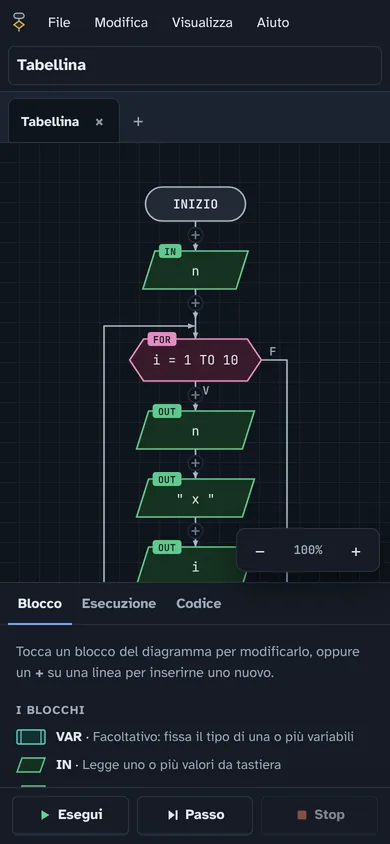
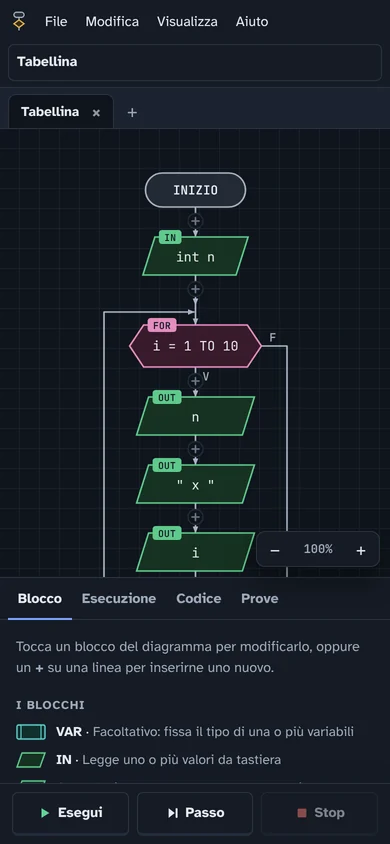
1.1.2: esempi con i tipi dichiarati (il Python generato funziona), finestra PNG che si chiude, pulizia di resti vecchi, immagini e README aggiornati

diff --git a/index.html b/index.html
@@ -29,7 +29,7 @@
 // an installed app, or a link with a diagram after #, opens straight on the editor
 if (location.hash.length > 2 || matchMedia('(display-mode: standalone)').matches || navigator.standalone) location.replace('app/' + location.hash);
 </script>
-<script type="application/ld+json">{"@context": "https://schema.org", "@type": "WebApplication", "name": "FlussoLab", "url": "https://flussolab.s3l.it/app/", "applicationCategory": "EducationalApplication", "operatingSystem": "Any (web browser)", "inLanguage": ["it", "en"], "isAccessibleForFree": true, "offers": {"@type": "Offer", "price": "0", "priceCurrency": "EUR"}, "description": "Editor gratuito di diagrammi di flusso (flowchart) per imparare a programmare. Funziona nel browser, anche su Chromebook e tablet, senza installare nulla: esecuzione passo passo, variabili, pseudocodice e Python, consegna in ZIP.", "image": "https://flussolab.s3l.it/icons/social.png", "screenshot": "https://flussolab.s3l.it/img/editor-it.webp", "softwareVersion": "1.1.1", "author": {"@type": "Person", "name": "aSamu3l", "url": "https://github.com/aSamu3l"}, "license": "https://creativecommons.org/licenses/by-nc-sa/4.0/"}</script>
+<script type="application/ld+json">{"@context": "https://schema.org", "@type": "WebApplication", "name": "FlussoLab", "url": "https://flussolab.s3l.it/app/", "applicationCategory": "EducationalApplication", "operatingSystem": "Any (web browser)", "inLanguage": ["it", "en"], "isAccessibleForFree": true, "offers": {"@type": "Offer", "price": "0", "priceCurrency": "EUR"}, "description": "Editor gratuito di diagrammi di flusso (flowchart) per imparare a programmare. Funziona nel browser, anche su Chromebook e tablet, senza installare nulla: esecuzione passo passo, variabili, pseudocodice e Python, consegna in ZIP.", "image": "https://flussolab.s3l.it/icons/social.png", "screenshot": "https://flussolab.s3l.it/img/editor-it.webp", "softwareVersion": "1.1.2", "author": {"@type": "Person", "name": "aSamu3l", "url": "https://github.com/aSamu3l"}, "license": "https://creativecommons.org/licenses/by-nc-sa/4.0/"}</script>
 <script type="application/ld+json">{"@context": "https://schema.org", "@type": "FAQPage", "mainEntity": [{"@type": "Question", "name": "È davvero gratis?", "acceptedAnswer": {"@type": "Answer", "text": "Sì, sempre. FlussoLab è distribuito con licenza CC BY-NC-SA 4.0: chiunque può usarlo e studiarne il codice, ma nessuno può venderlo o guadagnarci."}}, {"@type": "Question", "name": "Serve registrarsi?", "acceptedAnswer": {"@type": "Answer", "text": "No. I diagrammi restano salvati nel browser del dispositivo; per consegnarli o spostarli si salva un file .flusso."}}, {"@type": "Question", "name": "Funziona su Chromebook e iPad?", "acceptedAnswer": {"@type": "Answer", "text": "Sì. Basta un browser aggiornato: Chrome, Edge, Safari o Firefox. Su telefono e tablet l'interfaccia si adatta allo schermo."}}, {"@type": "Question", "name": "Funziona senza internet?", "acceptedAnswer": {"@type": "Answer", "text": "Sì, dopo la prima apertura. Puoi anche installarlo come app: dal menu del browser in Chrome ed Edge, oppure con «Aggiungi alla schermata Home» in Safari."}}, {"@type": "Question", "name": "Come consegnano i lavori gli studenti?", "acceptedAnswer": {"@type": "Answer", "text": "Con File → Salva si crea un file .flusso. Con File → Esporta consegna (ZIP) si ottiene un unico file con tutti i diagrammi aperti, sia da riaprire sia come immagini, con il nome dello studente."}}, {"@type": "Question", "name": "In quali linguaggi traduce il diagramma?", "acceptedAnswer": {"@type": "Answer", "text": "In pseudocodice, in italiano o in inglese, e in Python, che si attiva dalle opzioni."}}, {"@type": "Question", "name": "Posso proporre modifiche o tradurlo?", "acceptedAnswer": {"@type": "Answer", "text": "Sì. Il progetto è su GitHub: puoi segnalare problemi, proporre modifiche o aggiungere una lingua con un solo file."}}]}</script>
 </head>
 <body>
@@ -51,7 +51,7 @@ if (location.hash.length > 2 || matchMedia('(display-mode: standalone)').matches
   </div>
 </section>
 <figure class="shot wide"><img src="img/editor-it.webp" width="1280" height="760" alt="L&#x27;editor con il diagramma «Media dei voti» e la legenda dei blocchi." loading="lazy"><figcaption>L&#x27;editor con il diagramma «Media dei voti» e la legenda dei blocchi.</figcaption></figure>
-<section class="feat"><h2>Cosa sa fare</h2><div class="grps"><div class="grp"><h3>Per chi impara</h3><ul><li>I blocchi di sempre: IN, OUT, assegnazione, IF, WHILE, DO WHILE, FOR, VAR e commento.</li><li>Esecuzione completa o passo passo, con il blocco attivo evidenziato e la tabella delle variabili.</li><li>Errori segnalati prima di eseguire, con messaggi che spiegano cosa correggere.</li><li>Pseudocodice e codice Python generati dal diagramma, collegati blocco per blocco.</li><li>Tipi come in C: int, float, string e bool, con divisione intera e cast.</li></ul></div><div class="grp"><h3>Per chi insegna</h3><ul><li>Gli studenti consegnano un file .flusso, oppure un unico ZIP con tutti i diagrammi e le immagini.</li><li>Un diagramma si condivide con un link: la classe lo apre già pronto, senza caricare nulla su un server.</li><li>Nessun account e nessun dato raccolto: il lavoro resta sul dispositivo.</li><li>Immagini PNG dei diagrammi, pronte per verifiche e presentazioni.</li><li>Gratuito e con il codice aperto a tutti.</li></ul></div><div class="grp"><h3>Ovunque</h3><ul><li>Nel browser su Windows, Mac, Linux, Chromebook, iPad e Android.</li><li>Si installa come app e funziona anche senza internet.</li><li>In italiano e in inglese, con tema chiaro e scuro.</li></ul></div></div></section>
+<section class="feat"><h2>Cosa sa fare</h2><div class="grps"><div class="grp"><h3>Per chi impara</h3><ul><li>I blocchi di sempre: IN, OUT, assegnazione, IF, WHILE, DO WHILE, FOR, VAR e commento.</li><li>Esecuzione completa o passo passo, con il blocco attivo evidenziato e la tabella delle variabili.</li><li>Errori segnalati prima di eseguire, con messaggi che spiegano cosa correggere.</li><li>Pseudocodice e codice Python generati dal diagramma, collegati blocco per blocco.</li><li>Tipi come in C: int, float, string e bool, con divisione intera (//) e cast.</li><li>Scheda Prove: si scrivono input e output attesi e un clic controlla il programma.</li></ul></div><div class="grp"><h3>Per chi insegna</h3><ul><li>Gli studenti consegnano un file .flusso, oppure un unico ZIP con tutti i diagrammi e le immagini.</li><li>Un diagramma si condivide con un link: la classe lo apre già pronto, senza caricare nulla su un server.</li><li>Nessun account e nessun dato raccolto: il lavoro resta sul dispositivo.</li><li>Immagini PNG dei diagrammi, pronte per verifiche e presentazioni.</li><li>Gratuito e con il codice aperto a tutti.</li></ul></div><div class="grp"><h3>Ovunque</h3><ul><li>Nel browser su Windows, Mac, Linux, Chromebook, iPad e Android.</li><li>Si installa come app e funziona anche senza internet.</li><li>In italiano e in inglese, con tema chiaro e scuro.</li></ul></div></div></section>
 <div class="pair">
   <figure class="shot"><img src="img/run-it.webp" width="1280" height="760" alt="Esecuzione passo passo del programma «Numero primo»." loading="lazy"><figcaption>Esecuzione passo passo del programma «Numero primo».</figcaption></figure>
   <figure class="shot phone"><img src="img/phone-it.webp" width="390" height="844" alt="FlussoLab su telefono, con il tema scuro." loading="lazy"><figcaption>FlussoLab su telefono, con il tema scuro.</figcaption></figure>

diff --git a/en/index.html b/en/index.html
@@ -29,7 +29,7 @@
 // an installed app, or a link with a diagram after #, opens straight on the editor
 if (location.hash.length > 2 || matchMedia('(display-mode: standalone)').matches || navigator.standalone) location.replace('../app/' + location.hash);
 </script>
-<script type="application/ld+json">{"@context": "https://schema.org", "@type": "WebApplication", "name": "FlussoLab", "url": "https://flussolab.s3l.it/app/", "applicationCategory": "EducationalApplication", "operatingSystem": "Any (web browser)", "inLanguage": ["it", "en"], "isAccessibleForFree": true, "offers": {"@type": "Offer", "price": "0", "priceCurrency": "EUR"}, "description": "Free flowchart editor to learn programming. Runs in the browser, also on Chromebooks and tablets, with nothing to install: step-by-step execution, variables, pseudocode and Python, ZIP submissions.", "image": "https://flussolab.s3l.it/icons/social.png", "screenshot": "https://flussolab.s3l.it/img/editor-en.webp", "softwareVersion": "1.1.1", "author": {"@type": "Person", "name": "aSamu3l", "url": "https://github.com/aSamu3l"}, "license": "https://creativecommons.org/licenses/by-nc-sa/4.0/"}</script>
+<script type="application/ld+json">{"@context": "https://schema.org", "@type": "WebApplication", "name": "FlussoLab", "url": "https://flussolab.s3l.it/app/", "applicationCategory": "EducationalApplication", "operatingSystem": "Any (web browser)", "inLanguage": ["it", "en"], "isAccessibleForFree": true, "offers": {"@type": "Offer", "price": "0", "priceCurrency": "EUR"}, "description": "Free flowchart editor to learn programming. Runs in the browser, also on Chromebooks and tablets, with nothing to install: step-by-step execution, variables, pseudocode and Python, ZIP submissions.", "image": "https://flussolab.s3l.it/icons/social.png", "screenshot": "https://flussolab.s3l.it/img/editor-en.webp", "softwareVersion": "1.1.2", "author": {"@type": "Person", "name": "aSamu3l", "url": "https://github.com/aSamu3l"}, "license": "https://creativecommons.org/licenses/by-nc-sa/4.0/"}</script>
 <script type="application/ld+json">{"@context": "https://schema.org", "@type": "FAQPage", "mainEntity": [{"@type": "Question", "name": "Is it really free?", "acceptedAnswer": {"@type": "Answer", "text": "Yes, always. FlussoLab is released under the CC BY-NC-SA 4.0 license: anyone can use it and study its code, but nobody can sell it or make money from it."}}, {"@type": "Question", "name": "Do I need an account?", "acceptedAnswer": {"@type": "Answer", "text": "No. Diagrams stay saved in the browser on the device; to hand them in or move them, save a .flusso file."}}, {"@type": "Question", "name": "Does it work on Chromebooks and iPads?", "acceptedAnswer": {"@type": "Answer", "text": "Yes. Any up-to-date browser will do: Chrome, Edge, Safari or Firefox. On phones and tablets the interface adapts to the screen."}}, {"@type": "Question", "name": "Does it work without internet?", "acceptedAnswer": {"@type": "Answer", "text": "Yes, after the first visit. You can also install it as an app: from the browser menu in Chrome and Edge, or with “Add to Home Screen” in Safari."}}, {"@type": "Question", "name": "How do students hand in their work?", "acceptedAnswer": {"@type": "Answer", "text": "File → Save creates a .flusso file. File → Export submission (ZIP) creates one file with all open diagrams, both to reopen and as images, with the student’s name."}}, {"@type": "Question", "name": "Which languages does it translate the diagram into?", "acceptedAnswer": {"@type": "Answer", "text": "Into pseudocode, in English or Italian, and into Python, which you turn on in the options."}}, {"@type": "Question", "name": "Can I suggest changes or translate it?", "acceptedAnswer": {"@type": "Answer", "text": "Yes. The project is on GitHub: you can report problems, propose changes or add a language with a single file."}}]}</script>
 </head>
 <body>
@@ -51,7 +51,7 @@ if (location.hash.length > 2 || matchMedia('(display-mode: standalone)').matches
   </div>
 </section>
 <figure class="shot wide"><img src="../img/editor-en.webp" width="1280" height="760" alt="The editor with the “Average of grades” diagram and the block legend." loading="lazy"><figcaption>The editor with the “Average of grades” diagram and the block legend.</figcaption></figure>
-<section class="feat"><h2>What it does</h2><div class="grps"><div class="grp"><h3>For learners</h3><ul><li>The usual blocks: IN, OUT, assignment, IF, WHILE, DO WHILE, FOR, VAR and comment.</li><li>Run the whole program or step by step, with the active block highlighted and a table of variables.</li><li>Errors are flagged before running, with messages that explain what to fix.</li><li>Pseudocode and Python code generated from the diagram, linked block by block.</li><li>Types like in C: int, float, string and bool, with integer division and casts.</li></ul></div><div class="grp"><h3>For teachers</h3><ul><li>Students hand in a .flusso file, or a single ZIP with all their diagrams and images.</li><li>Share a diagram with a link: the class opens it ready to use, with nothing uploaded to a server.</li><li>No accounts and no data collected: the work stays on the device.</li><li>PNG images of the diagrams, ready for tests and slides.</li><li>Free, with its code open to everyone.</li></ul></div><div class="grp"><h3>Everywhere</h3><ul><li>In the browser on Windows, Mac, Linux, Chromebook, iPad and Android.</li><li>Installs as an app and works without internet.</li><li>In English and Italian, with light and dark theme.</li></ul></div></div></section>
+<section class="feat"><h2>What it does</h2><div class="grps"><div class="grp"><h3>For learners</h3><ul><li>The usual blocks: IN, OUT, assignment, IF, WHILE, DO WHILE, FOR, VAR and comment.</li><li>Run the whole program or step by step, with the active block highlighted and a table of variables.</li><li>Errors are flagged before running, with messages that explain what to fix.</li><li>Pseudocode and Python code generated from the diagram, linked block by block.</li><li>Types like in C: int, float, string and bool, with integer division (//) and casts.</li><li>Tests tab: write inputs and expected outputs, and one click checks the program.</li></ul></div><div class="grp"><h3>For teachers</h3><ul><li>Students hand in a .flusso file, or a single ZIP with all their diagrams and images.</li><li>Share a diagram with a link: the class opens it ready to use, with nothing uploaded to a server.</li><li>No accounts and no data collected: the work stays on the device.</li><li>PNG images of the diagrams, ready for tests and slides.</li><li>Free, with its code open to everyone.</li></ul></div><div class="grp"><h3>Everywhere</h3><ul><li>In the browser on Windows, Mac, Linux, Chromebook, iPad and Android.</li><li>Installs as an app and works without internet.</li><li>In English and Italian, with light and dark theme.</li></ul></div></div></section>
 <div class="pair">
   <figure class="shot"><img src="../img/run-en.webp" width="1280" height="760" alt="Step-by-step run of the “Prime number” program." loading="lazy"><figcaption>Step-by-step run of the “Prime number” program.</figcaption></figure>
   <figure class="shot phone"><img src="../img/phone-en.webp" width="390" height="844" alt="FlussoLab on a phone, dark theme." loading="lazy"><figcaption>FlussoLab on a phone, dark theme.</figcaption></figure>

diff --git a/css/style.css b/css/style.css
@@ -99,16 +99,12 @@ button,input,textarea,select{font:inherit;color:inherit}
 .btn{display:inline-flex;align-items:center;gap:6px;border:1px solid var(--rule);background:var(--surface);border-radius:7px;padding:6px 11px;cursor:pointer;font-size:14px;line-height:1.1;white-space:nowrap;text-decoration:none;color:var(--ink)}
 .btn:hover{background:var(--surface-2)}
 .btn:disabled{opacity:.45;cursor:default;background:var(--surface)}
-.btn.ico{padding:6px 8px}
 .btn svg{width:15px;height:15px;flex:none}
 .btn.primary{background:var(--pen);border-color:var(--pen);color:var(--on-pen);font-weight:700}
 .btn.primary:hover{filter:brightness(1.08)}
 .btn.danger{color:var(--red)}
-.btn.tog[aria-pressed="true"]{background:var(--pen-soft);border-color:var(--pen);color:var(--pen);font-weight:700}
 .check{display:flex;gap:8px;align-items:flex-start;font-size:14px;margin-bottom:12px;cursor:pointer}
 .check input{margin-top:3px;accent-color:var(--pen);width:16px;height:16px;flex:none}
-.check.big span{display:grid;gap:2px}
-.check.big small{color:var(--muted);font-size:13px}
 .btn.danger:hover{background:var(--red-soft)}
 .speed{display:flex;align-items:center;gap:6px;font-size:13px;color:var(--muted);padding-left:10px}
 .speed input{width:84px;accent-color:var(--pen)}
@@ -157,7 +153,7 @@ pre.code .cl.hov{background:var(--hl-soft);box-shadow:inset 3px 0 0 var(--hl)}
 .blk.hov .shape{stroke:var(--hl)!important;stroke-width:3!important}
 #svgHost svg{-webkit-user-select:none;user-select:none}
 #svgHost text{pointer-events:none}
-svg text,.field input,pre.code,.con,.vars td,.tip b,.dlg textarea{font-variant-ligatures:none;font-feature-settings:"liga" 0,"calt" 0}
+svg text,.field input,pre.code,.con,.vars td,.tip b{font-variant-ligatures:none;font-feature-settings:"liga" 0,"calt" 0}
 .about{display:flex;gap:12px;align-items:center}
 .about h2{margin:0}
 .about p{margin:2px 0 0}
@@ -282,9 +278,6 @@ pre.code{margin:0;font:13px/1.55 var(--f-mono);background:var(--paper);border:1p
 .exres .mark{font-size:15px}
 .exres li.ok .mark{color:var(--green)}
 .exres li.ko .mark{color:var(--red)}
-.radios{display:grid;gap:8px}
-.radios label{display:flex;gap:9px;align-items:flex-start;font-size:14.5px;cursor:pointer}
-.radios input{margin:3px 0 0;accent-color:var(--pen)}
 .exres dl{display:grid;grid-template-columns:auto 1fr;gap:3px 10px;margin:8px 0 0}
 .exres dt{color:var(--muted);font-size:12px;font-weight:700;padding-top:2px}
 .exres dd{margin:0;font:13px/1.4 var(--f-mono);white-space:pre-wrap;word-break:break-word;font-variant-ligatures:none}
@@ -307,19 +300,6 @@ pre.code{margin:0;font:13px/1.55 var(--f-mono);background:var(--paper);border:1p
 @media (max-width: 420px){ .mytest{grid-template-columns:1fr} .mytest .tdel{justify-self:end} }
 .handin{border:1px solid var(--pen);background:var(--pen-soft);border-radius:9px;padding:10px 12px}
 .handin .sent{margin:8px 0 0;color:var(--green);font-weight:700;font-size:13.5px}
-/* exercise editor (teacher) */
-.dlg textarea{font:14px var(--f-mono);padding:8px 10px;border:1px solid var(--rule);border-radius:7px;background:var(--paper);width:100%;resize:vertical;color:var(--ink)}
-.dlg textarea.prose{font-family:var(--f-body)}
-.extests{display:grid;gap:10px}
-.extest{border:1px solid var(--rule);border-radius:9px;padding:10px;display:grid;grid-template-columns:1fr 1fr;gap:8px 10px}
-.extest .lbl{font-size:12px;font-weight:700;color:var(--muted)}
-.extest .exio{display:grid;gap:4px;min-width:0}
-.extest textarea{min-height:76px}
-.extest .act{grid-column:1/-1;display:flex;flex-wrap:wrap;gap:8px;align-items:center}
-.extest .act .sp{flex:1}
-.extest .msg{grid-column:1/-1;color:var(--red);font-size:12.5px}
-dialog.wide{width:min(720px,calc(100vw - 32px))}
-@media (max-width: 560px){ .extest{grid-template-columns:1fr} }
 /* dialogs */
 dialog{border:1px solid var(--rule);border-radius:14px;padding:0;background:var(--surface);color:var(--ink);box-shadow:var(--shadow);width:min(560px,calc(100vw - 32px));max-height:calc(100vh - 48px);max-height:calc(100dvh - 32px);overflow:auto}
 dialog::backdrop{background:rgb(10 16 26 / .45)}

diff --git a/js/app.js b/js/app.js
@@ -2,7 +2,7 @@
 'use strict';
 /* ====== Project settings ====== */
 const CONFIG = {
-  version: '1.1.1',
+  version: '1.1.2',
   author: 'aSamu3l',
   github: 'https://github.com/aSamu3l',
   repo: 'https://github.com/aSamu3l/FlussoLab',
@@ -1020,7 +1020,6 @@ $('#bStop').onclick = () => stopRun(false);
 const dlg = $('#dlg');
 function openDlg(html) {
   hideMenu(); hideCtx(); closePop();
-  dlg.classList.remove('wide');
   dlg.innerHTML = `<div class="dlg">${html}</div>`;
   if (!dlg.open) { dlg.showModal(); document.documentElement.classList.add('locked'); }
 }
@@ -1278,7 +1277,8 @@ function cmdPng() {
     openDlg(`<h2>${esc(t('pngTitle'))}</h2><div class="pngprev"><img src="${url}" width="${W}" alt="${esc(prog.name || t('untitled'))}"></div>
       <p>${esc(t('pngNote'))}</p>
       <div class="foot"><button class="btn" data-close>${esc(t('close'))}</button><button class="btn primary" id="pngDl">${esc(t('pngDl'))}</button></div>`);
-    $('#pngDl').onclick = () => triggerDownload(url, name, bl);
+    $('#pngDl').onclick = () => { triggerDownload(url, name, bl); dlg.close(); };
+    dlg.addEventListener('close', () => setTimeout(() => URL.revokeObjectURL(url), 30000), { once: true });
   }).catch(() => toast(t('pngErr')));
 }
 
@@ -1477,7 +1477,7 @@ function runCmd(c) {
   if (c === 'link') { opts.link = !opts.link; saveOpts(); hoverLink(null, false); return; }
   if (c === 'py') { opts.py = !opts.py; saveOpts(); renderCode(); return; }
   if (c === 'cut' && f) { clip = JSON.stringify(f.b, replacer); stopRun(); snap(); return deleteSel(f, true); }
-  if (c === 'up' || c === 'down') { const btn = document.createElement('button'); btn.dataset.act = c; return blockAct(c); }
+  if (c === 'up' || c === 'down') return blockAct(c);
   if ((c === 'inv' || c === 'swap' || c === 'off') && f) return blockAct(c);
   if (c.startsWith('ins:')) { const sl = ctxSlot; if (sl) { popSlot = sl; insertType(c.slice(4)); } return; }
   if (c === 'pasteSlot' && ctxSlot && clip) { popSlot = ctxSlot; insertType('__paste'); return; }

diff --git a/sw.js b/sw.js
@@ -1,6 +1,6 @@
 // FlussoLab service worker: keeps the app available offline.
 // Change VERSION whenever you publish new files, so users get the update.
-const VERSION = 'flussolab-1.1.1';
+const VERSION = 'flussolab-1.1.2';
 const FILES = ['./', 'index.html', 'en/', 'en/index.html', 'css/home.css', 'app/', 'app/index.html', 'css/style.css', 'js/core.js', 'js/app.js', 'js/pwa.js', 'manifest.webmanifest', 'icons/icon-192.png', 'icons/icon-512.png', 'icons/maskable-512.png', 'icons/apple-touch-icon.png', 'icons/favicon-64.png', 'lang/languages.json', 'lang/it.json', 'lang/en.json', 'fonts/atkinson-400.woff2', 'fonts/atkinson-400i.woff2', 'fonts/atkinson-700.woff2', 'fonts/gabarito-600.woff2', 'fonts/gabarito-800.woff2', 'fonts/jetbrains-mono-400.woff2', 'fonts/jetbrains-mono-600.woff2'];
 
 self.addEventListener('install', e => {

diff --git a/CHANGELOG.it.md b/CHANGELOG.it.md
@@ -4,6 +4,13 @@
 
 Tutte le modifiche di FlussoLab, dalla più recente. I numeri di versione seguono la regola *principale.funzioni.correzioni*.
 
+## 1.1.2 · 20 ottobre 2026
+
+- Gli **esempi pronti** dichiarano il tipo dei dati letti (`IN int n`, `IN float voto`): così anche il codice Python generato funziona.
+- La finestra dell’**immagine PNG** si chiude dopo il download, come quella di *Salva*.
+- Tolti stili e testi rimasti dal vecchio editor di esercizi.
+- Immagini aggiornate nel README e nella pagina di benvenuto; nel README le funzioni nuove (Prove, link, verifiche, trascinamento).
+
 ## 1.1.1 · 19 ottobre 2026
 
 - Nella scheda *Prove* non si vedono più il codice del dispositivo e la cronologia dei dispositivi: restano solo dentro il file `.flusso`, per il docente.

diff --git a/README.it.md b/README.it.md
@@ -17,6 +17,10 @@ Niente da installare: va su PC, Mac, Chromebook e tablet.
 - Errori spiegati in modo semplice
 - Pseudocodice e codice Python generati in automatico
 - Più diagrammi aperti in schede, salvataggio in file `.flusso`, esportazione in PNG e consegna in un unico ZIP
+- Scheda **Prove**: input e output attesi per controllare il programma con un clic
+- Link condivisibili con il diagramma dentro, senza server
+- Verifiche con il server del docente, installabile a parte (branch [`server`](https://github.com/aSamu3l/FlussoLab/tree/server))
+- App installabile che funziona anche offline; i file `.flusso` e gli ZIP si aprono trascinandoli sulla finestra
 - Italiano e inglese (e altre lingue in arrivo), tema chiaro e scuro
 
 ## Come si presenta

diff --git a/README.md b/README.md
@@ -17,6 +17,10 @@ Nothing to install: it works on PC, Mac, Chromebook and tablets.
 - Errors explained in plain words
 - Pseudocode and Python code generated automatically
 - Several diagrams open in tabs, `.flusso` files, PNG export and a single ZIP to hand in
+- **Tests** tab: inputs and expected outputs to check the program in one click
+- Shareable links with the diagram inside, no server needed
+- Graded assignments on the teacher's own server, installed separately (the [`server`](https://github.com/aSamu3l/FlussoLab/tree/server) branch)
+- Installable app that also works offline; `.flusso` files and ZIPs open by dropping them on the window
 - Italian and English (more languages welcome), light and dark theme
 
 ## How it looks

diff --git a/CHANGELOG.md b/CHANGELOG.md
@@ -4,6 +4,13 @@
 
 Every change to FlussoLab, newest first. Version numbers follow *major.features.fixes*.
 
+## 1.1.2 · October 20, 2026
+
+- The **ready-made examples** declare the type of what they read (`IN int n`, `IN float grade`), so the generated Python code works too.
+- The **PNG image** window closes after the download, like *Save*.
+- Removed styles and texts left over from the old exercise editor.
+- Updated screenshots in the README and on the welcome page; the README lists the newer features (Tests, links, assignments, drag and drop).
+
 ## 1.1.1 · October 19, 2026
 
 - The *Tests* tab no longer shows the device code and the device history: they stay only inside the `.flusso` file, for the teacher.
